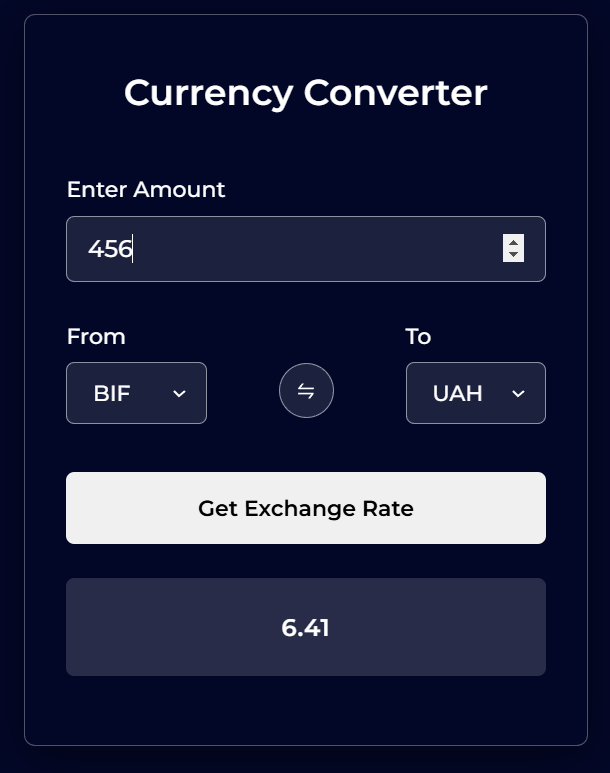
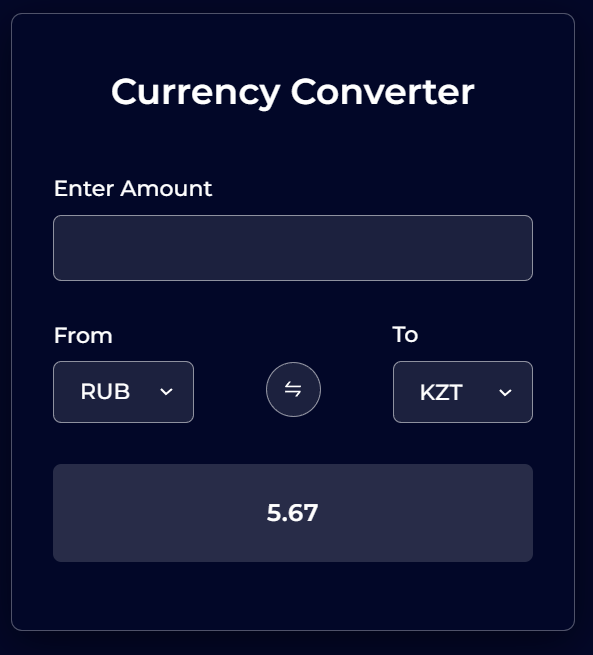
readme photo added, and removed button

diff --git a/src/App.jsx b/src/App.jsx
@@ -2,7 +2,7 @@ import { useEffect, useState } from "react";
 
 function App() {
   const [amount, setAmount] = useState(0);
-  const [fromCurrency, setFromCurrency] = useState("EUR");
+  const [fromCurrency, setFromCurrency] = useState("KZT");
   const [toCurrency, setToCurrency] = useState("USD");
 
   const [exchangeRate, setExchangeRate] = useState({});
@@ -43,6 +43,7 @@ function App() {
           // setToCurrency(Object.keys(data.rates)[0]);
         } catch (error) {
           console.log(error.message);
+          setIsError(error.message);
         } finally {
           setIsLoading(false);
         }
@@ -143,10 +144,6 @@ function App() {
               </div>
             </div>
           </div>
-          <button type="submit" className="submit-button">
-            Get Exchange Rate
-          </button>
-
           <p className="exchange-rate-result">{convertedAmount.toFixed(2)}</p>
         </form>
       )}
